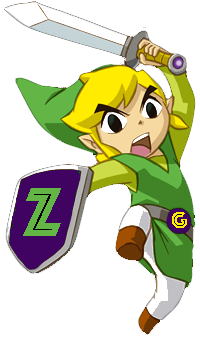
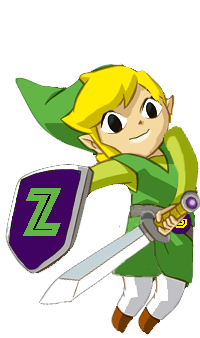
commit

diff --git a/zen-garden/cover-sample/index.html b/zen-garden/cover-sample/index.html
@@ -50,9 +50,29 @@
 
 <body id="css-zen-garden">
 	<img src="images/mountain-banner2.jpg" id="banner">
+	<p>
+		<button type="button" onclick="zwave(1)">WAVE</button>
+		<button type="button" onclick="zwave(0)">DON'T WAVE</button>
+	</p><br>
+	<img id="zelda" src="images/zelda.png" width="200">
+	<script>
+		function zwave(sw) {
+			var pic;
+			if (sw == 0) {
+				pic = "images/zelda.png"
+			} else {
+				pic = "images/wave.png"
+			}
+			document.getElementById('zelda').src = pic;
+		}
+	</script>
 	<div class="page-wrapper">
 
 		<section class="intro" id="zen-intro">
+			<header role="banner">
+				<h1>CSS Zen Garden</h1>
+				<h2>The Beauty of <abbr title="Cascading Style Sheets">CSS</abbr> Design</h2>
+			</header>
 
 			<img src="images/first-block.png" id="under">
 			<div class="preamble" id="zen-preamble" role="article">
@@ -153,7 +173,25 @@
 					href="http://www.amazon.com/exec/obidos/ASIN/0321303474/mezzoblue-20/">Zen Garden, the book</a>.</p>
 		</div>
 		<div><img src="images/cover5.png" id="cover5"></div>
-		<div><img src="images/dude.png" id="dude"></div>
+		<!--<div><img src="images/tilt-dude.png" id="tilt-dude"></div>
+		<div><img src="images/dude.png" id="dude"></div>-->
+		<p>
+			<button type="button" onclick="sword(1)">ATTACK</button>
+			<button type="button" onclick="sword(0)">BACK</button>
+		</p><br>
+		<img id="dude" src="images/dude.png" width="200"><br><br><br><br><br><br>
+		<script>
+			function sword(sw) {
+				var pic;
+				if (sw == 0) {
+					pic = "images/dude.png"
+				} else {
+					pic = "images/tilt-dude.png"
+				}
+				document.getElementById('dude').src = pic;
+			}
+		</script>
+		
 </body>
 
 </html>

diff --git a/zen-garden/cover-sample/style.css b/zen-garden/cover-sample/style.css
@@ -121,6 +121,7 @@ div.benefits h3{
 }
 #block5{
     margin-top: 45px;
+    margin-bottom: 100px; 
 }
 div.requirements{
     color: rgb(238, 235, 235);
@@ -128,9 +129,10 @@ div.requirements{
     position: absolute flex;
     width: 255px;
     font-size: 14.5px;
-    margin-top: -1010px;
+    margin-top: -1110px;
     margin-left: 70px;
     text-align: justify;
+    margin-bottom: 100px; 
 }
 .requirements h3{
     line-height: .5em;
@@ -140,15 +142,18 @@ div.requirements{
     margin-left: 93px;
     text-align: left;
 }
-/*The following image was obtained free from Klipartz,
-then it was changed so as not to mimic Zelda*/
-#dude{
-    width: 190px;
-    margin-top: 60px;
-    margin-left: 50px;
-}
 #cover5{
     position: absolute;
-    margin-top: -864px;
-    margin-left: 65px; 
+    margin-top: -964px;
+    margin-left: 65px;
+    margin-bottom: 100px; 
 }
+button{
+    background-color: rgb(188, 157, 245);
+    font-size: 18px;
+    padding: 10px;
+    border-radius: 5px;
+/*The following images were obtained free from Klipartz,
+then it was changed so as not to mimic Zelda #dude and #tilt-dude */
+
+
